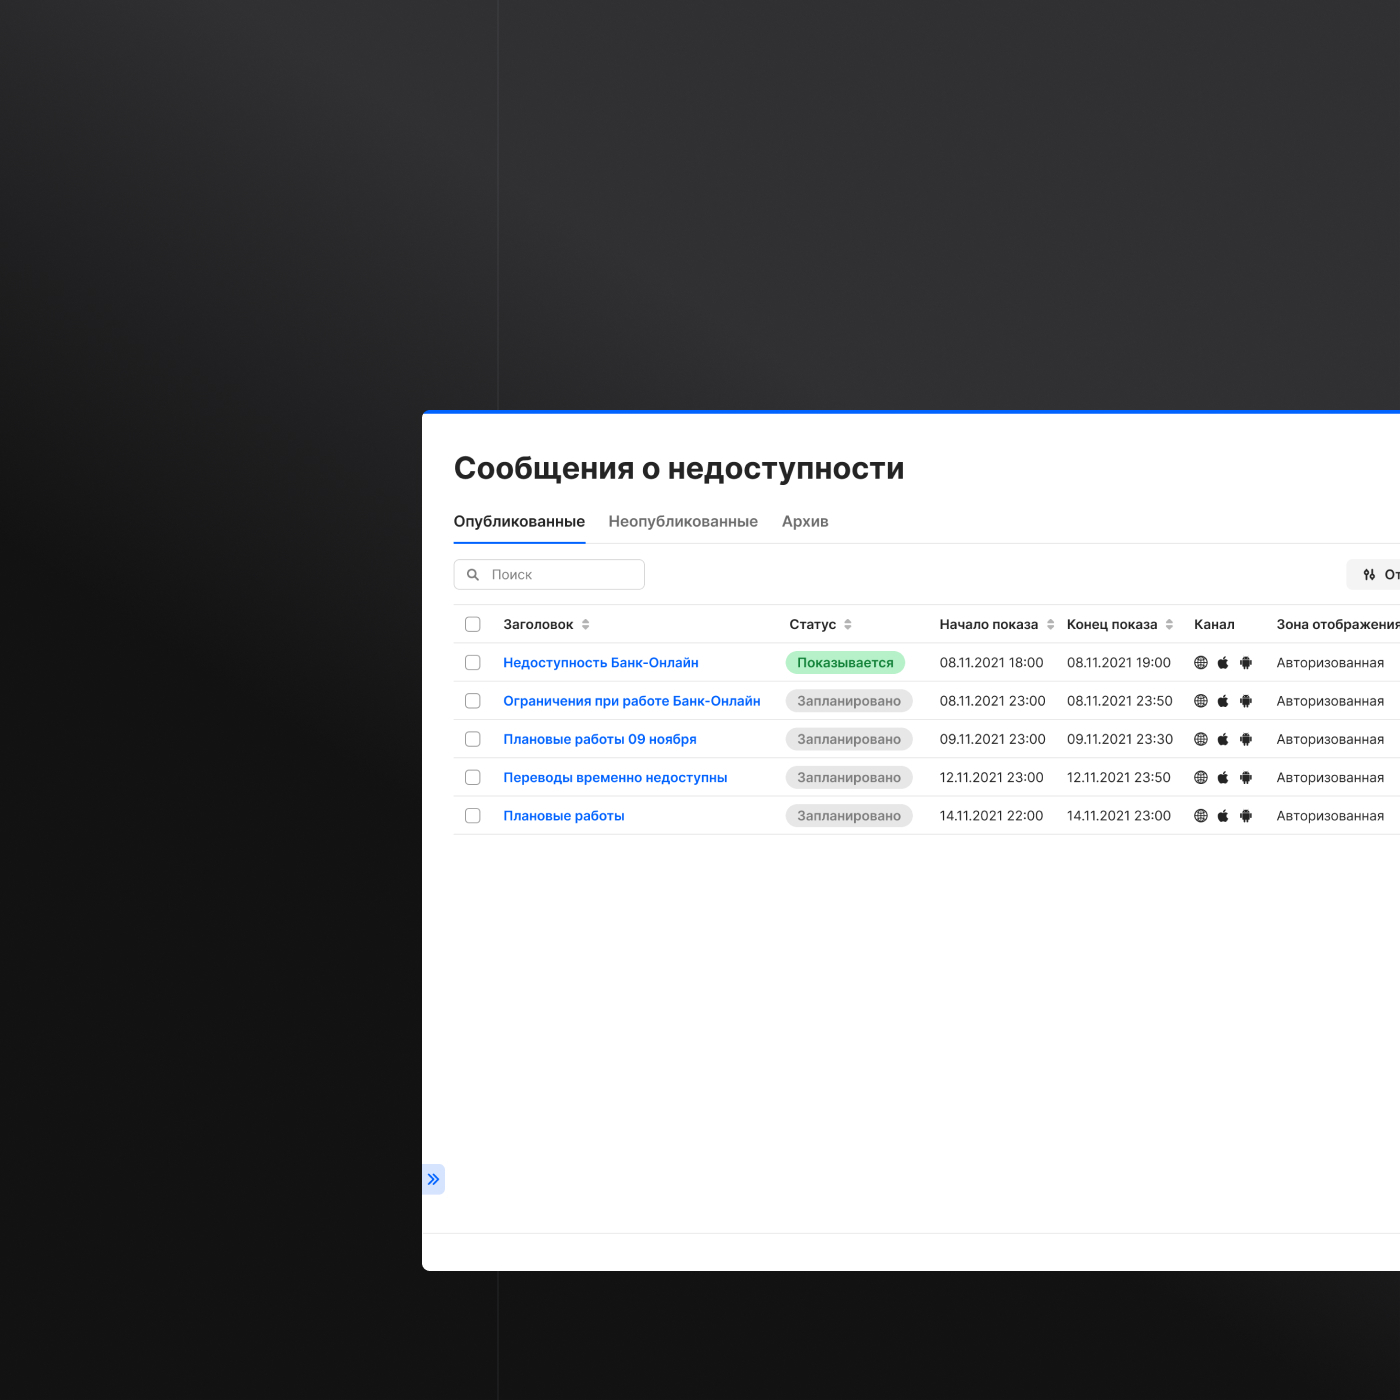
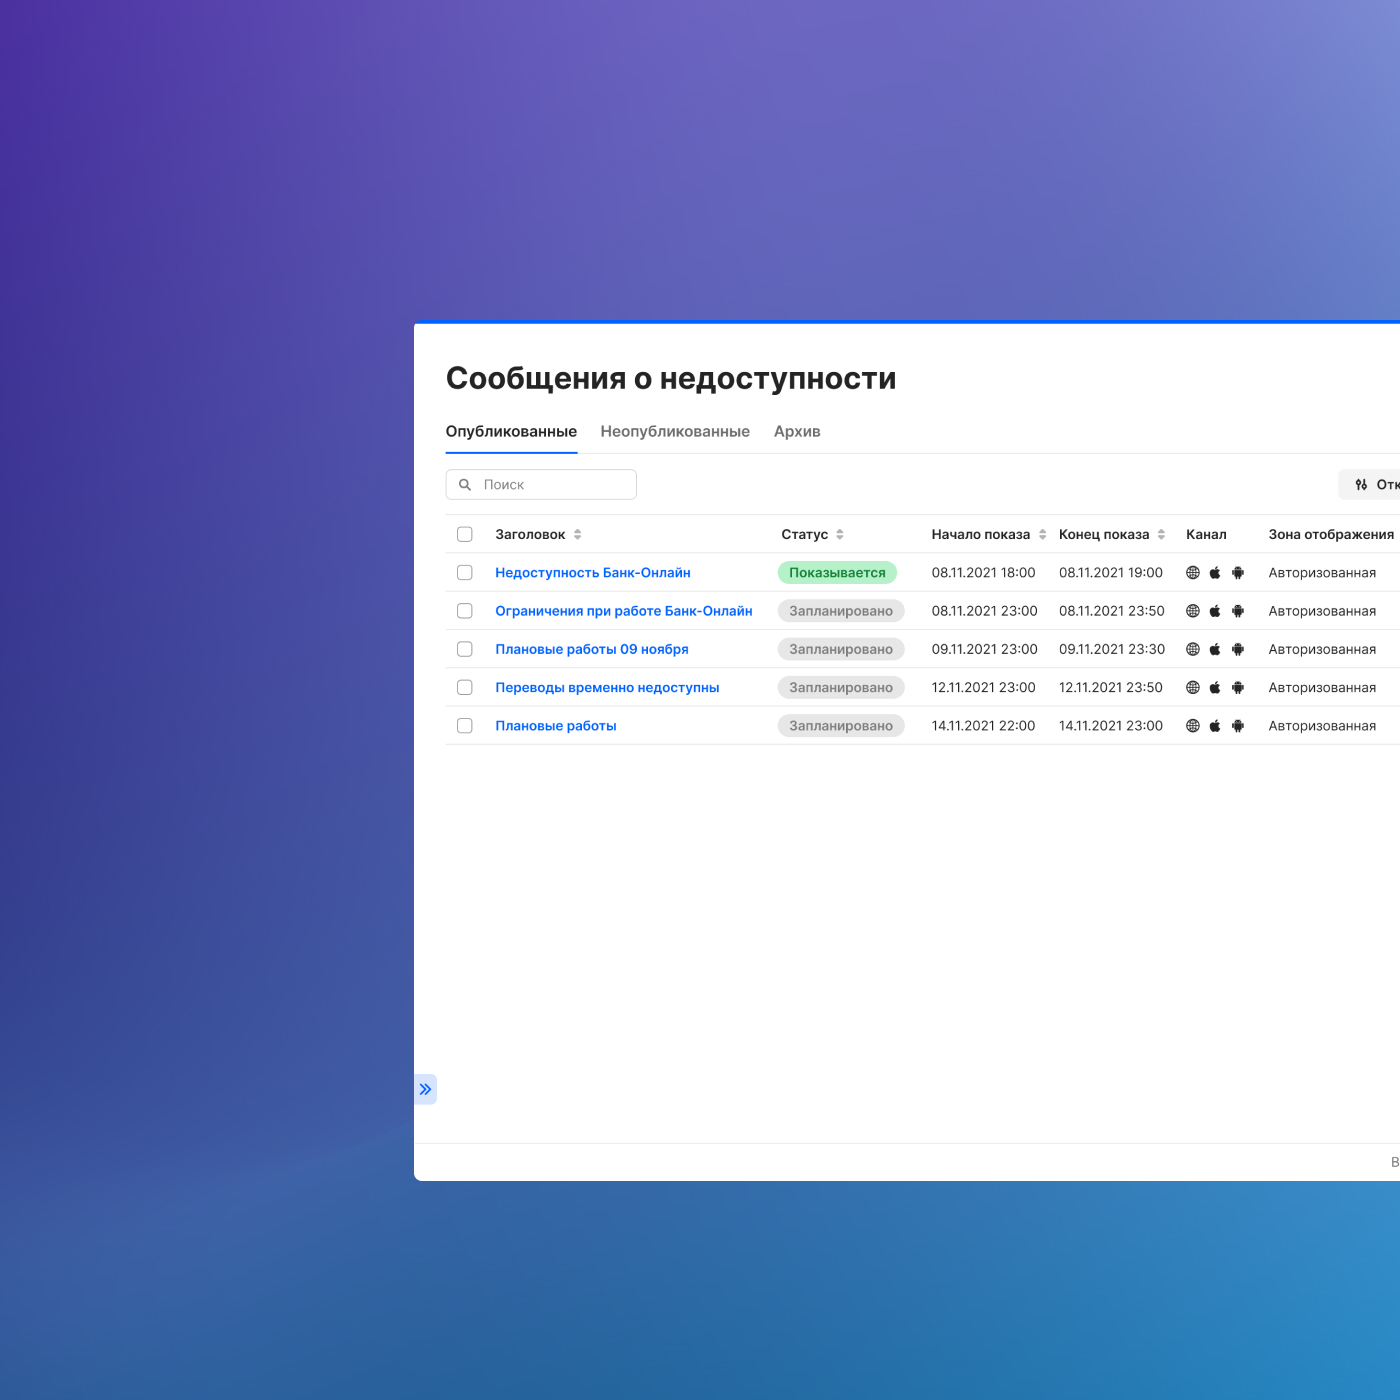
v0.0.10

diff --git a/components/Header/index.js b/components/Header/index.js
@@ -10,11 +10,25 @@ const Header = ({ handleWorkScroll, handleAboutScroll, isBlog }) => {
   const router = useRouter();
   const { theme, setTheme } = useTheme();
   const [mounted, setMounted] = useState(false);
+  const [scrolled, setScrolled] = useState(false);
 
   const { name, showBlog, showResume } = data;
 
+  const handleScroll = () => {
+    const scrollTop = window.pageYOffset || document.documentElement.scrollTop;
+    const scrollClass = scrollTop > 0 ? "scroll" : "";
+    document.body.classList = scrollClass;
+    if (scrollTop > 100) { // изменить значение 100 на нужное вам
+      setScrolled(true);
+    } else {
+      setScrolled(false);
+    }
+  };
+
   useEffect(() => {
     setMounted(true);
+    window.addEventListener("scroll", handleScroll);
+    return () => window.removeEventListener("scroll", handleScroll);
   }, []);
 
   return (
@@ -105,7 +119,7 @@ const Header = ({ handleWorkScroll, handleAboutScroll, isBlog }) => {
       </Popover>
       <div
         className={`mt-10 hidden flex-row items-center justify-between sticky ${
-          theme === "light" && "bg-white"
+          scrolled ? (theme === "light" ? "bg-white" : "bg-black bg-opacity-20") : ""
         } dark:text-white top-0 z-10 tablet:flex`}
       >
         <h1

diff --git a/styles/globals.css b/styles/globals.css
@@ -23,8 +23,8 @@ body {
   filter: blur(40px);
   background: radial-gradient(
     circle,
-    rgba(248, 107, 223, 1) 0%,
-    rgba(107, 107, 248, 0.8) 100%
+    rgba(43, 135, 194, 1) 0%,
+    rgba(75, 51, 161, 0.8) 100%
   );
 }
 .gradient-circle-bottom {
@@ -38,8 +38,8 @@ body {
   filter: blur(40px);
   background: radial-gradient(
     circle,
-    rgba(248, 107, 223, 1) 0%,
-    rgba(107, 107, 248, 0.8) 100%
+    rgba(43, 135, 194, 1) 0%,
+    rgba(75, 51, 161, 0.8) 100%
   );
 }
 
